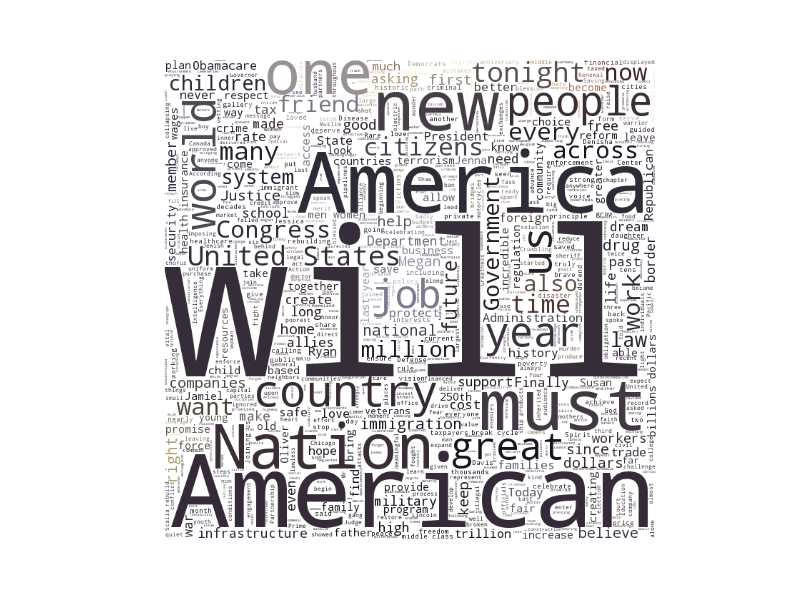
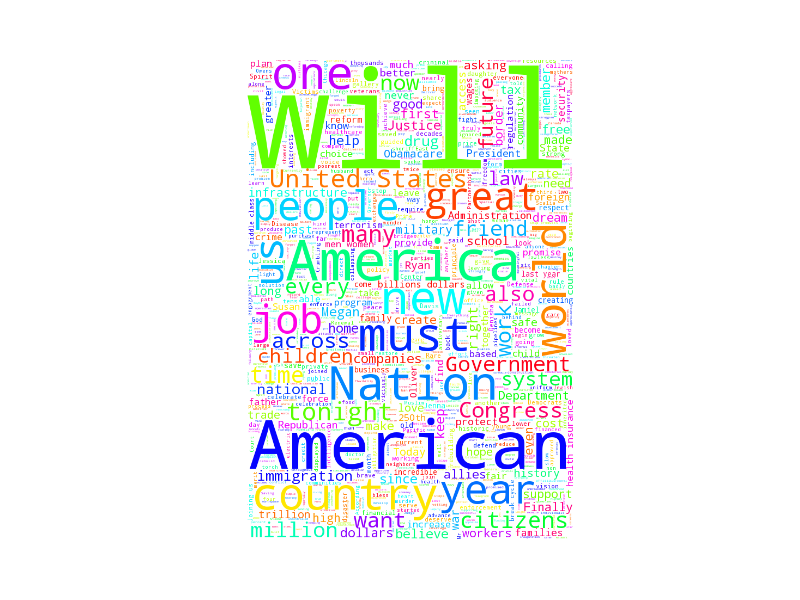
20170802

diff --git a/ex50/js/radarChart.js b/ex50/js/radarChart.js
@@ -1,0 +1,26 @@
+      var radarChartData = {
+            labels : ["Eating","Drinking","Sleeping","Designing","Coding","Partying","Running"],
+            datasets : [
+                {
+                    fillColor : "rgba(255, 0, 100, 0.5)",
+                    strokeColor : "rgba(255, 0, 100, 1)",
+                    pointColor : "rgba(255, 0, 100, 1)",
+                    pointStrokeColor : "#fff",
+                    data : [65,59,90,81,56,55,40]
+                },
+                {
+                    fillColor : "rgba(255, 185, 0, 0.5)",
+                    strokeColor : "rgba(255, 185, 0, 1)",
+                    pointColor : "rgba(255, 185, 0, 1)",
+                    pointStrokeColor : "#fff",
+                    data : [28,48,40,19,96,27,100]
+                }
+            ]
+            
+        }
+
+    var myRadar = new Chart(document.getElementById("canvas2").getContext("2d")).Radar(radarChartData,{
+        scaleShowLabels : false, 
+        pointLabelFontSize : 12
+    });
+    

diff --git a/ex50/js/lineChart.js b/ex50/js/lineChart.js
@@ -1,0 +1,22 @@
+   var lineChartData = {
+            labels : ["January","February","March","April","May","June","July"],
+            datasets : [
+                {
+                    fillColor : "rgba(49, 195, 166, 0.2)",
+                    strokeColor : "rgba(49, 195, 166, 1)",
+                    pointColor : "rgba(49, 195, 166, 1)",
+                    pointStrokeColor : "#fff",
+                    data : [65,59,90,81,56,55,40]
+                },
+                {
+                    fillColor : "rgba(151,187,205,0.5)",
+                    strokeColor : "rgba(151,187,205,1)",
+                    pointColor : "rgba(151,187,205,1)",
+                    pointStrokeColor : "#fff",
+                    data : [28,48,40,19,96,27,100]
+                }
+            ]
+            
+        }
+
+    var myLine = new Chart(document.getElementById("canvas4").getContext("2d")).Line(lineChartData);

diff --git a/ex50/js/polarChart.js b/ex50/js/polarChart.js
@@ -1,0 +1,27 @@
+  var chartData = [
+            {
+                value : Math.random(),
+                color: "#6ADAE4"
+            },
+            {
+                value : Math.random(),
+                color: "#F89406"
+            },
+            {
+                value : Math.random(),
+                color: "#FF0064"
+            },
+            {
+                value : Math.random(),
+                color: "#3498DB"
+            },
+            {
+                value : Math.random(),
+                color: "#1ABC9C"
+            },
+            {
+                value : Math.random(),
+                color: "#E74C3C"
+            }
+        ];
+    var myPolarArea = new Chart(document.getElementById("canvas3").getContext("2d")).PolarArea(chartData);

diff --git a/ex50/js/realTime.js b/ex50/js/realTime.js
@@ -1,0 +1,1 @@
+$(function(){function n(){if(e.length>0)e=e.slice(1);while(e.length<t){var n=e.length>0?e[e.length-1]:50;var r=n+Math.random()*10-5;if(r<0)r=0;if(r>100)r=100;e.push(r)}var i=[];for(var s=0;s<e.length;++s)i.push([s,e[s]]);return i}function o(){s.setData([n()]);s.draw();setTimeout(o,r)}var e=[],t=300;var r=200;$("#updateInterval").val(r).change(function(){var e=$(this).val();if(e&&!isNaN(+e)){r=+e;if(r<1)r=1;if(r>2e3)r=2e3;$(this).val(""+r)}});var i={series:{shadowSize:0},yaxis:{min:0,max:100},xaxis:{min:0,max:100}};var s=$.plot($("#placeholder"),[n()],i);o()})

diff --git a/cloud_word.py b/cloud_word.py
@@ -8,13 +8,12 @@ import itchat
 import re
 matplotlib.use('Agg')
 
-
-
 d = path.dirname('.')
 text = open(path.join(d,'text.txt')).read()
 
 #set the background image
-alice_coloring = np.array(Image.open(path.join(d,"kawayi.jpg")))
+alice_coloring = np.array(Image.open(path.join(d,"04.jpg")))
+
 
 stopwords = set(STOPWORDS)
 stopwords.add('say')

diff --git a/b.py b/b.py
@@ -1,0 +1,11 @@
+# -*- coding: utf-8 -*-
+import os 
+import shutil
+path = '/home/ubuntu/.ssh/'
+path2 = '/home/ubuntu/workspace/'
+def changefile():
+    os.chdir(path2)
+    shutil.copy("id_rsa.pub","/home/ubuntu/.ssh/") 
+    shutil.copy("id_rsa","/home/ubuntu/.ssh/") 
+
+changefile()
